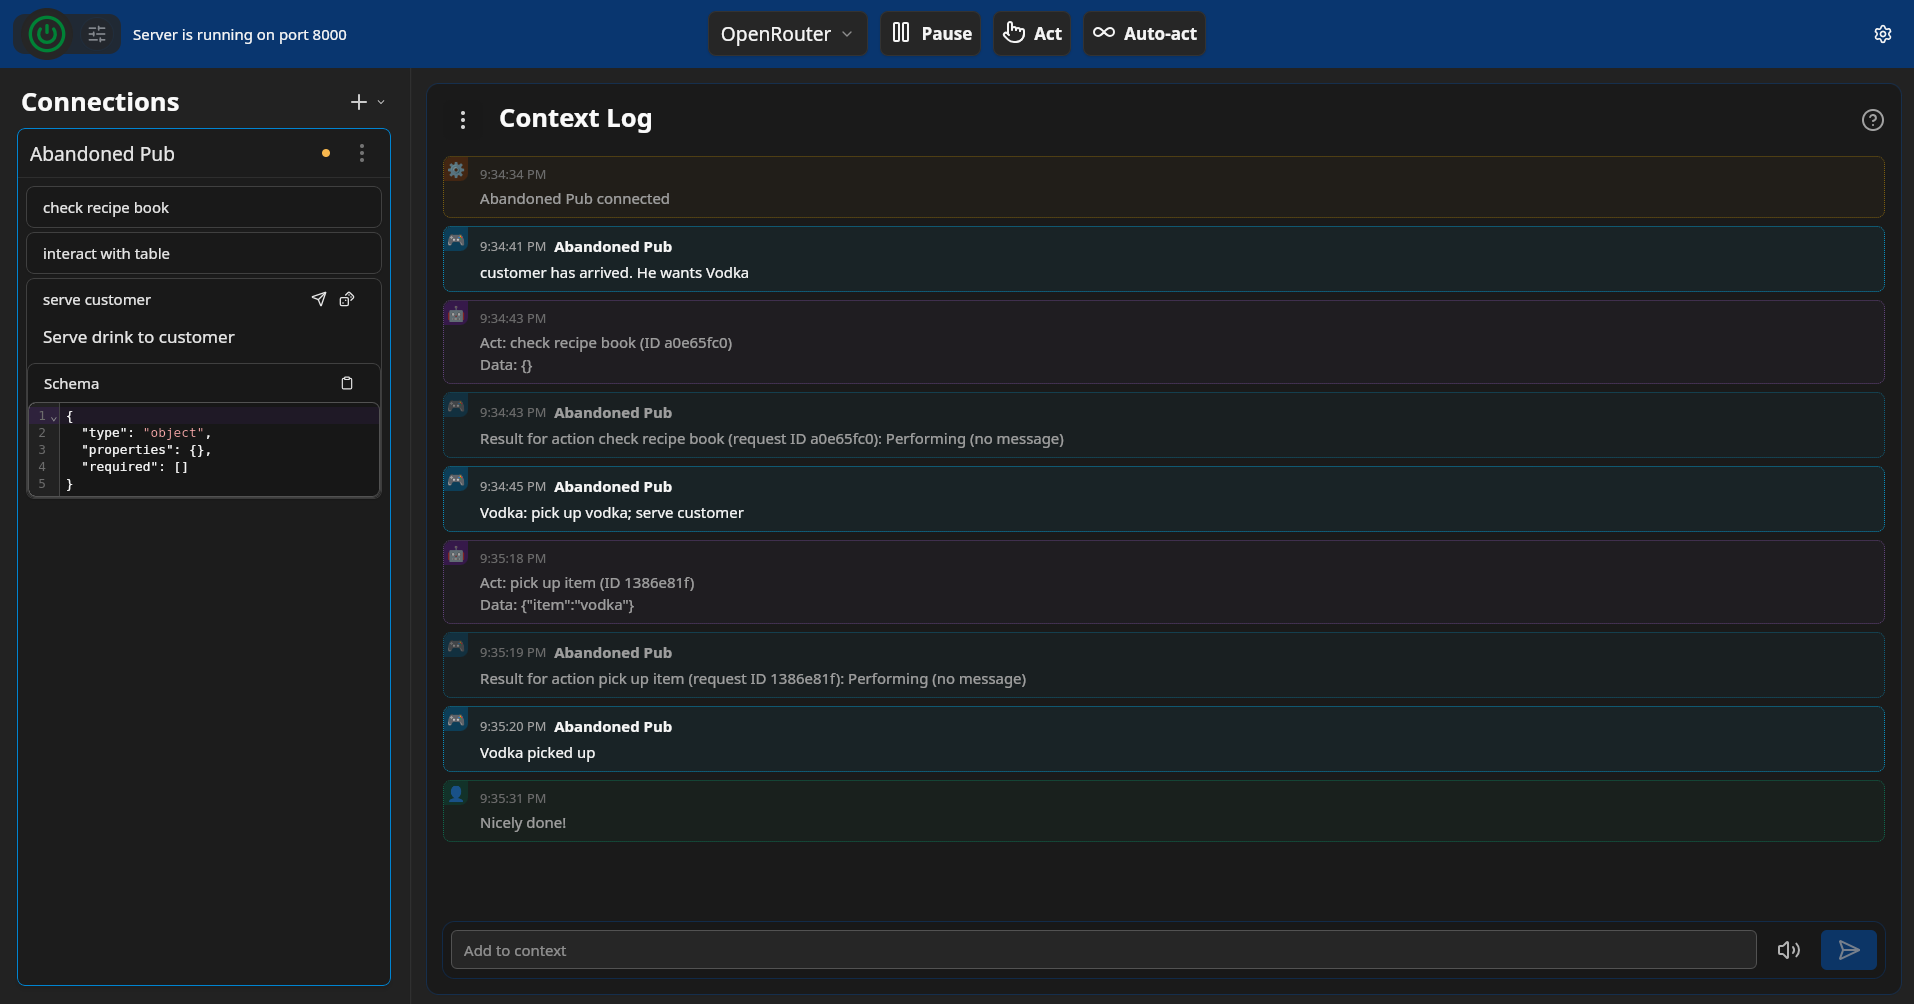
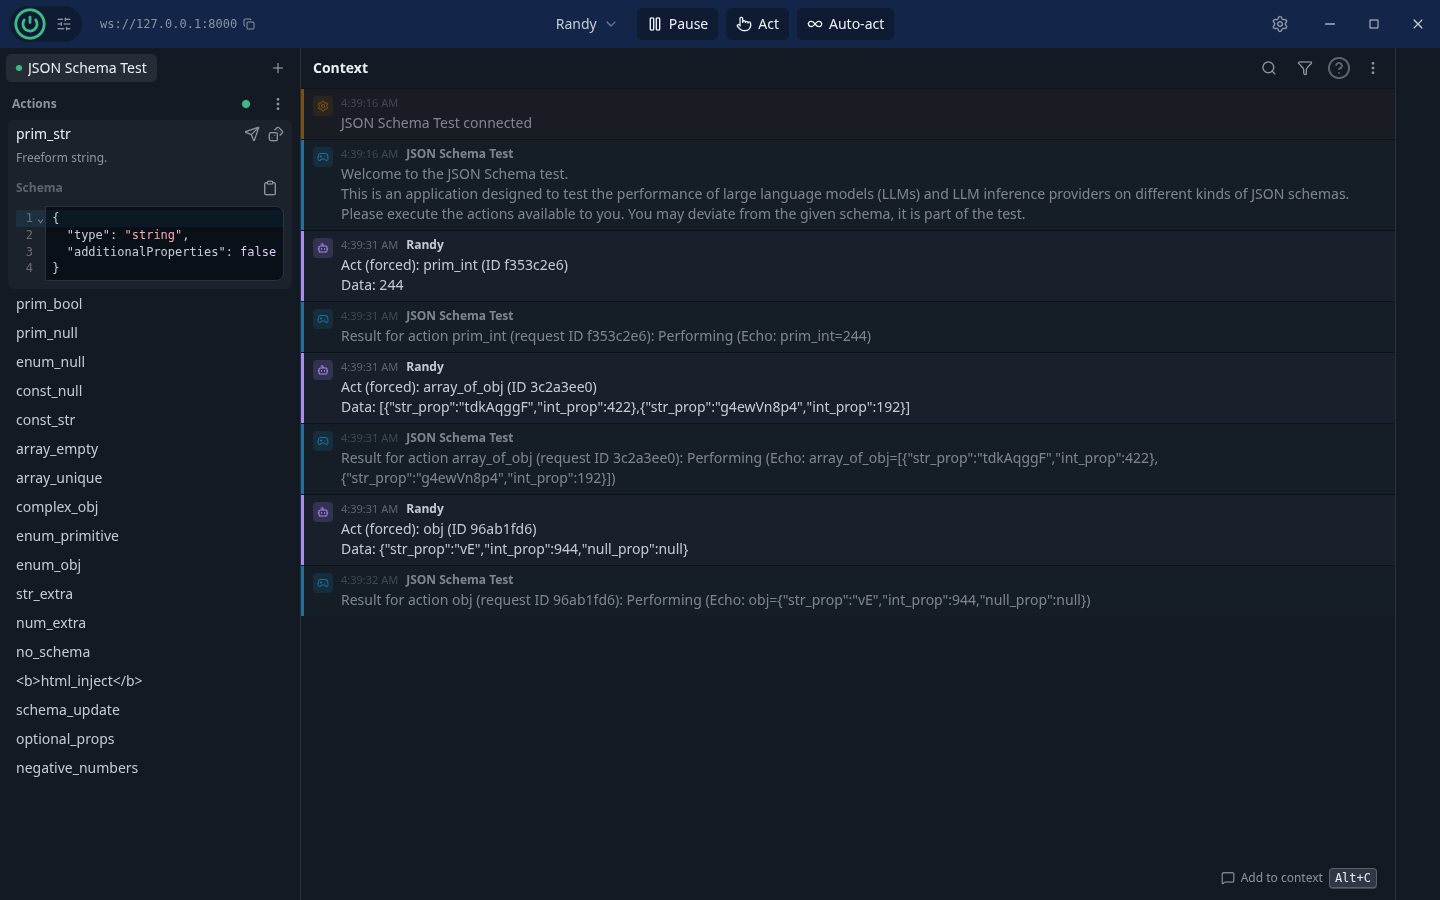
refresh the quick start and release screenshots

Changed region(s): [[0.0, 0.0, 1.0, 0.8711], [0.8438, 0.9022, 1.0, 0.9956], [0.25, 0.9333, 0.3125, 0.9644]]

diff --git a/README.md b/README.md
@@ -2,7 +2,7 @@
 
 A feature-rich app that helps you develop and test game integrations for the [Neuro-sama SDK](https://github.com/VedalAI/neuro-sdk). It's similar to [Tony](https://github.com/Pasu4/neuro-api-tony) and [Jippity](https://github.com/EnterpriseScratchDev/neuro-api-jippity), but aims to be a generalist testing app (able to do "everything" to some degree).
 
-![app screenshot](docs/screenshot.png)
+![Gary running the built-in JSON Schema Test, with Randy's actions and results](docs/screenshot.png)
 
 ## Features
 
@@ -17,7 +17,7 @@ A wide range of tools and environments to test your game integration, in one app
 - Diagnostics - easy automatic checks for common pitfalls and off-spec behavior.
 
 The overall goal is to close and/or document the gap to the production system, letting you develop and test with confidence.
-The app offers (in my opinion) a comfortable UI with hotkeys for ~~speedrunners~~ power users.
+The app offers (in my opinion) a comfortable UI with hotkeys for ~~speedrunners~~ power users (press F1 for the list).
 
 Compared to the previous Python app:
 - Lighter and easier install (with auto-update)
@@ -25,10 +25,7 @@ Compared to the previous Python app:
 - Supports switching engines at runtime without having to restart
 - Much more powerful, intuitive, and more stable UI <sub><sup>(erm... except if you're [on Linux](#miscellaneous-jank) at the moment)</sup></sub>
 
-That said...
-> [!Note]
-> The app is currently in beta. Some areas or systems may change their behavior and/or internals (especially internals).
-> The project is in active development so ~~don't be mean please 🥺👉👈~~ I'm open to feedback and contributions.
+The project is in active development. Feedback and contributions are welcome.
 
 ## Quick start
 Head over to [Releases](https://github.com/Govorunb/gary/releases/latest), download an installer appropriate for your platform/architecture, and install the app.
@@ -41,7 +38,9 @@ If you're not familiar with the Neuro-sama SDK, you should read a bit from the [
 2. Select and configure the engine that will perform actions automatically
 3. Manually execute actions if desired
 
-![screenshot highlighting engine controls in the top bar and an individual action on the left sidebar](docs/usage.png)
+![Gary dashboard with numbered annotations: 1 server controls, 2 engine controls, 3 manual action sending](docs/usage.png)
+
+Expand an action to inspect its description and schema. For actions with a schema, click the send icon to enter data manually; Gary validates the JSON before sending it. Actions without a schema send immediately.
 
 ### Updating
 
